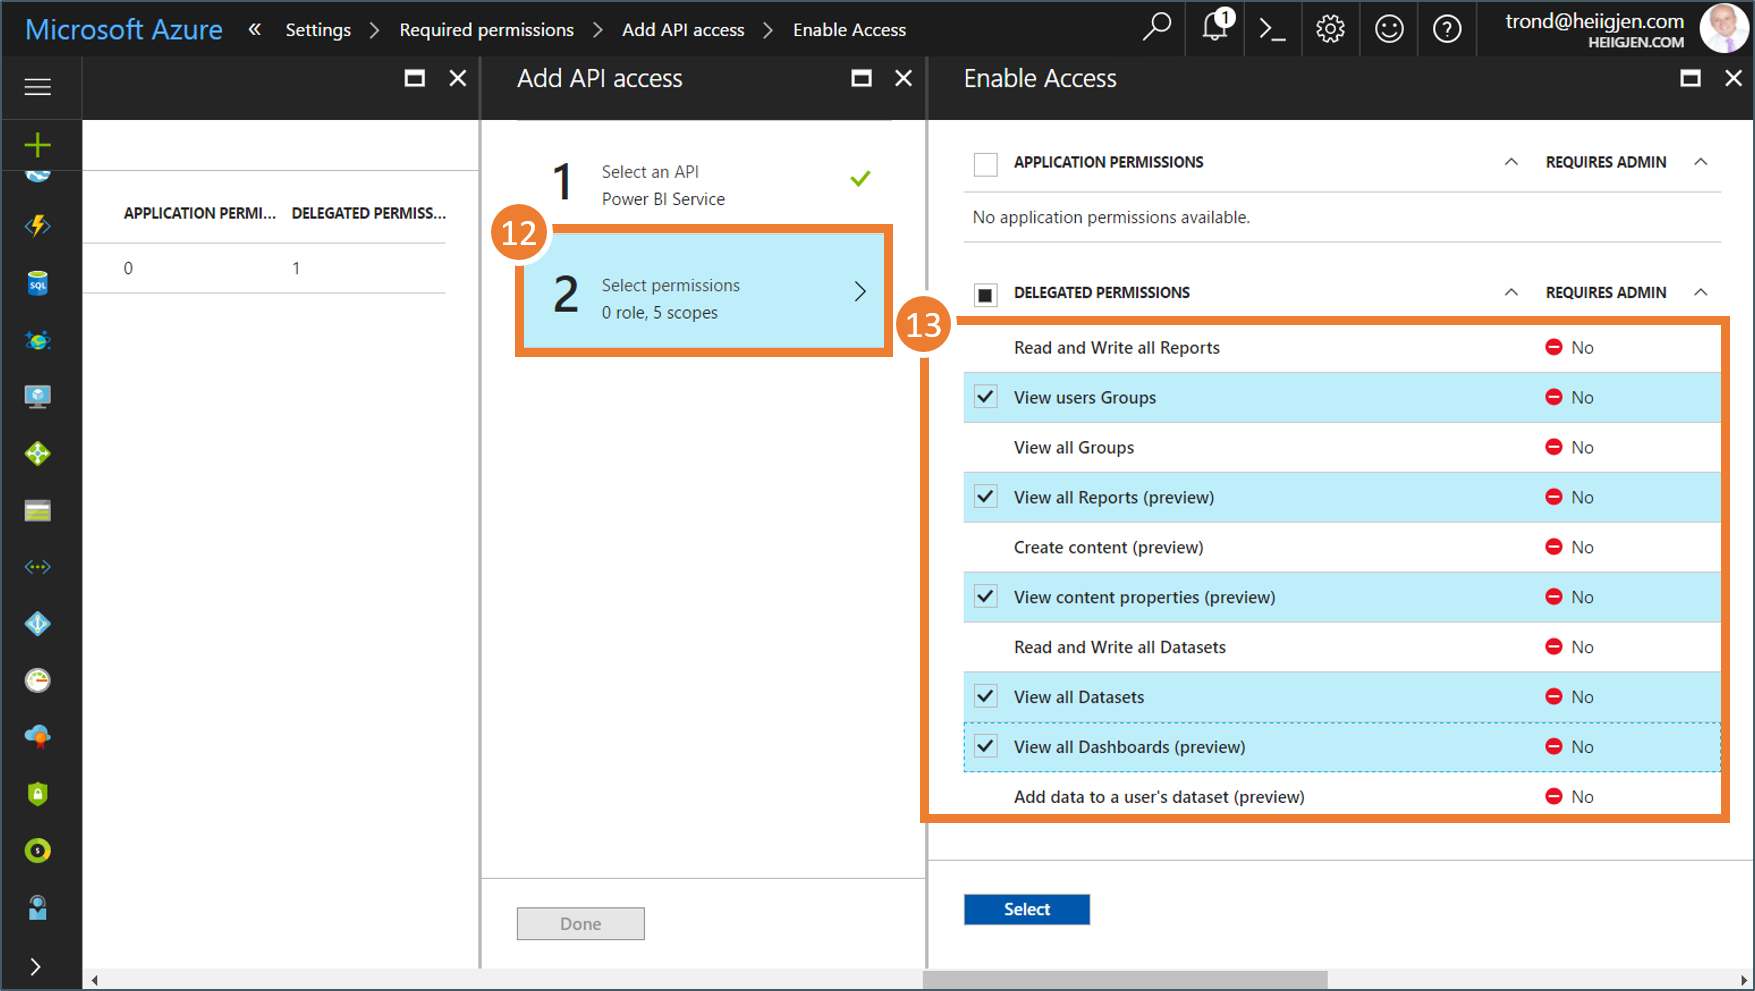
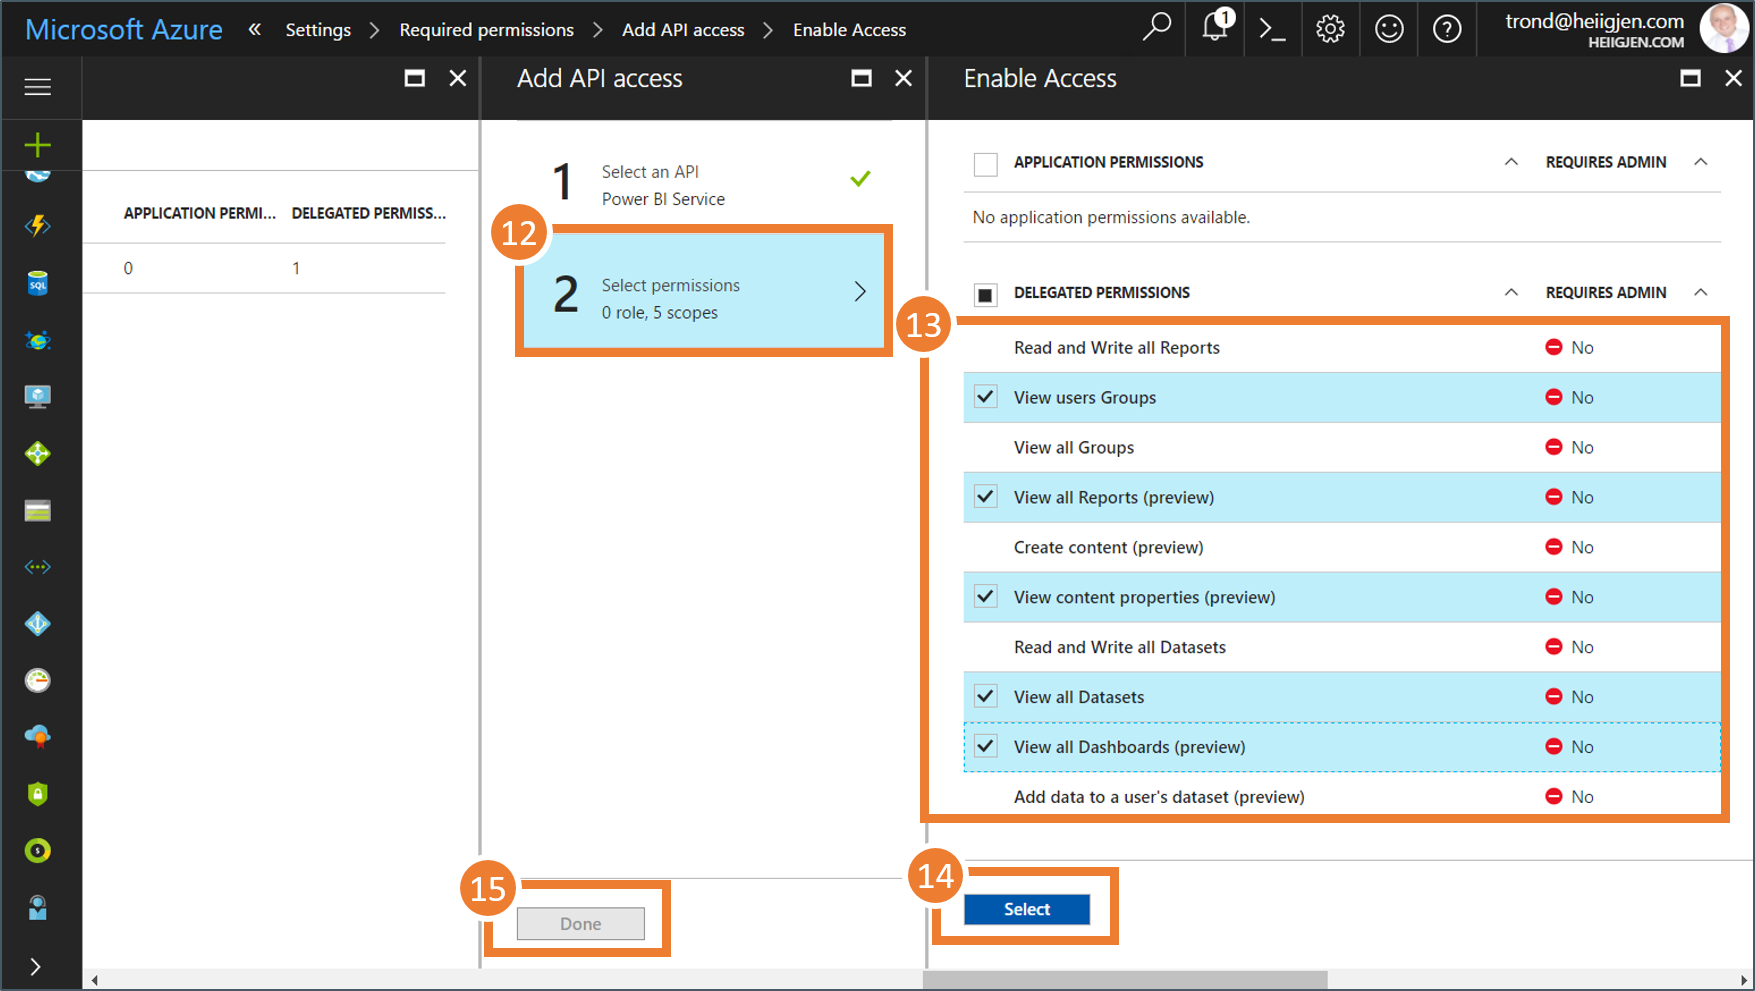
Updated image and adjusted AAD text

Changed region(s): [[0.2462, 0.8476, 0.4, 0.9687], [0.4923, 0.8476, 0.6462, 0.9687]]

diff --git a/pages/azure-ad.md b/pages/azure-ad.md
@@ -26,7 +26,7 @@ of your Dynamics CRM instance **https://*yourinstancename*{: style="color: #ED7D
 
 7. Open the newly created app
 
-    > [![]({{BASE_PATH}}/assets/images/v1.0/aad/aad-add-app-permissions.png)]({{BASE_PATH}}/assets/images/v1.0/aad/aad-add-app-permissions.png)
+   > [![]({{BASE_PATH}}/assets/images/v1.0/aad/aad-add-app-permissions.png)]({{BASE_PATH}}/assets/images/v1.0/aad/aad-add-app-permissions.png)
 
 
 8. The application needs access to Power BI. Go to required permissions, and ...
@@ -34,35 +34,32 @@ of your Dynamics CRM instance **https://*yourinstancename*{: style="color: #ED7D
 
    > [![]({{BASE_PATH}}/assets/images/v1.0/aad/aad-add-pbi-api-access.png)]({{BASE_PATH}}/assets/images/v1.0/aad/aad-add-pbi-api-access.png)
 
-10. Select API, and ...
-11. choose "Power BI Service"
+0. Select API, and ...
+1. choose "Power BI Service"
 
    **Can't find the service?** You remembered to create a report or dashboard in Power BI right? If not it might be that Power BI has not 
-   been associated with your environment. Login to Power BI and try again...
+   been associated with your environment. Login to Power BI before re-trying...
    {: .alert .alert-warning }
 
    > [![]({{BASE_PATH}}/assets/images/v1.0/aad/aad-set-pbi-permissions.png)]({{BASE_PATH}}/assets/images/v1.0/aad/aad-set-pbi-permissions.png)
 
-12. Next step is setting Power BI permissions
-
-13. What we need is rights to view.
-
-14. Set the new permissions...
-
-15. And you are (almost) done
+2. Next step is setting Power BI permissions
+3. What you need is rights to view.
+4. Click select to set the new permissions...
+5. and click done as that is what you are (almost)
 
    > [![]({{BASE_PATH}}/assets/images/v1.0/aad/aad-modify-manifest.png)]({{BASE_PATH}}/assets/images/v1.0/aad/aad-modify-manifest.png)
 
-16. A minor change to the manifest is required
-
-17. Change the following from false to true.
+6. A minor change to the manifest is required
+7. Change the following from false to true.
 
    > "oauth2AllowImplicitFlow": true,
    
-18. And save.
+8. And save.
 
    > [![]({{BASE_PATH}}/assets/images/v1.0/aad/aad-copy-clientid.png)]({{BASE_PATH}}/assets/images/v1.0/aad/aad-copy-clientid.png)
 
-19. Finally copy the application id as this will be required when configuring the solution in Dynamics 365.
+9. Finally copy the application id as this will be required when configuring the solution in Dynamics 365.
 
-   > Next step is to [install and configure crm-powerbi-viewer](install-solution.html) in Dynamics 365.
+Next step is to [install and configure crm-powerbi-viewer](install-solution.html) in Dynamics 365.
+{: .alert .alert-info }
